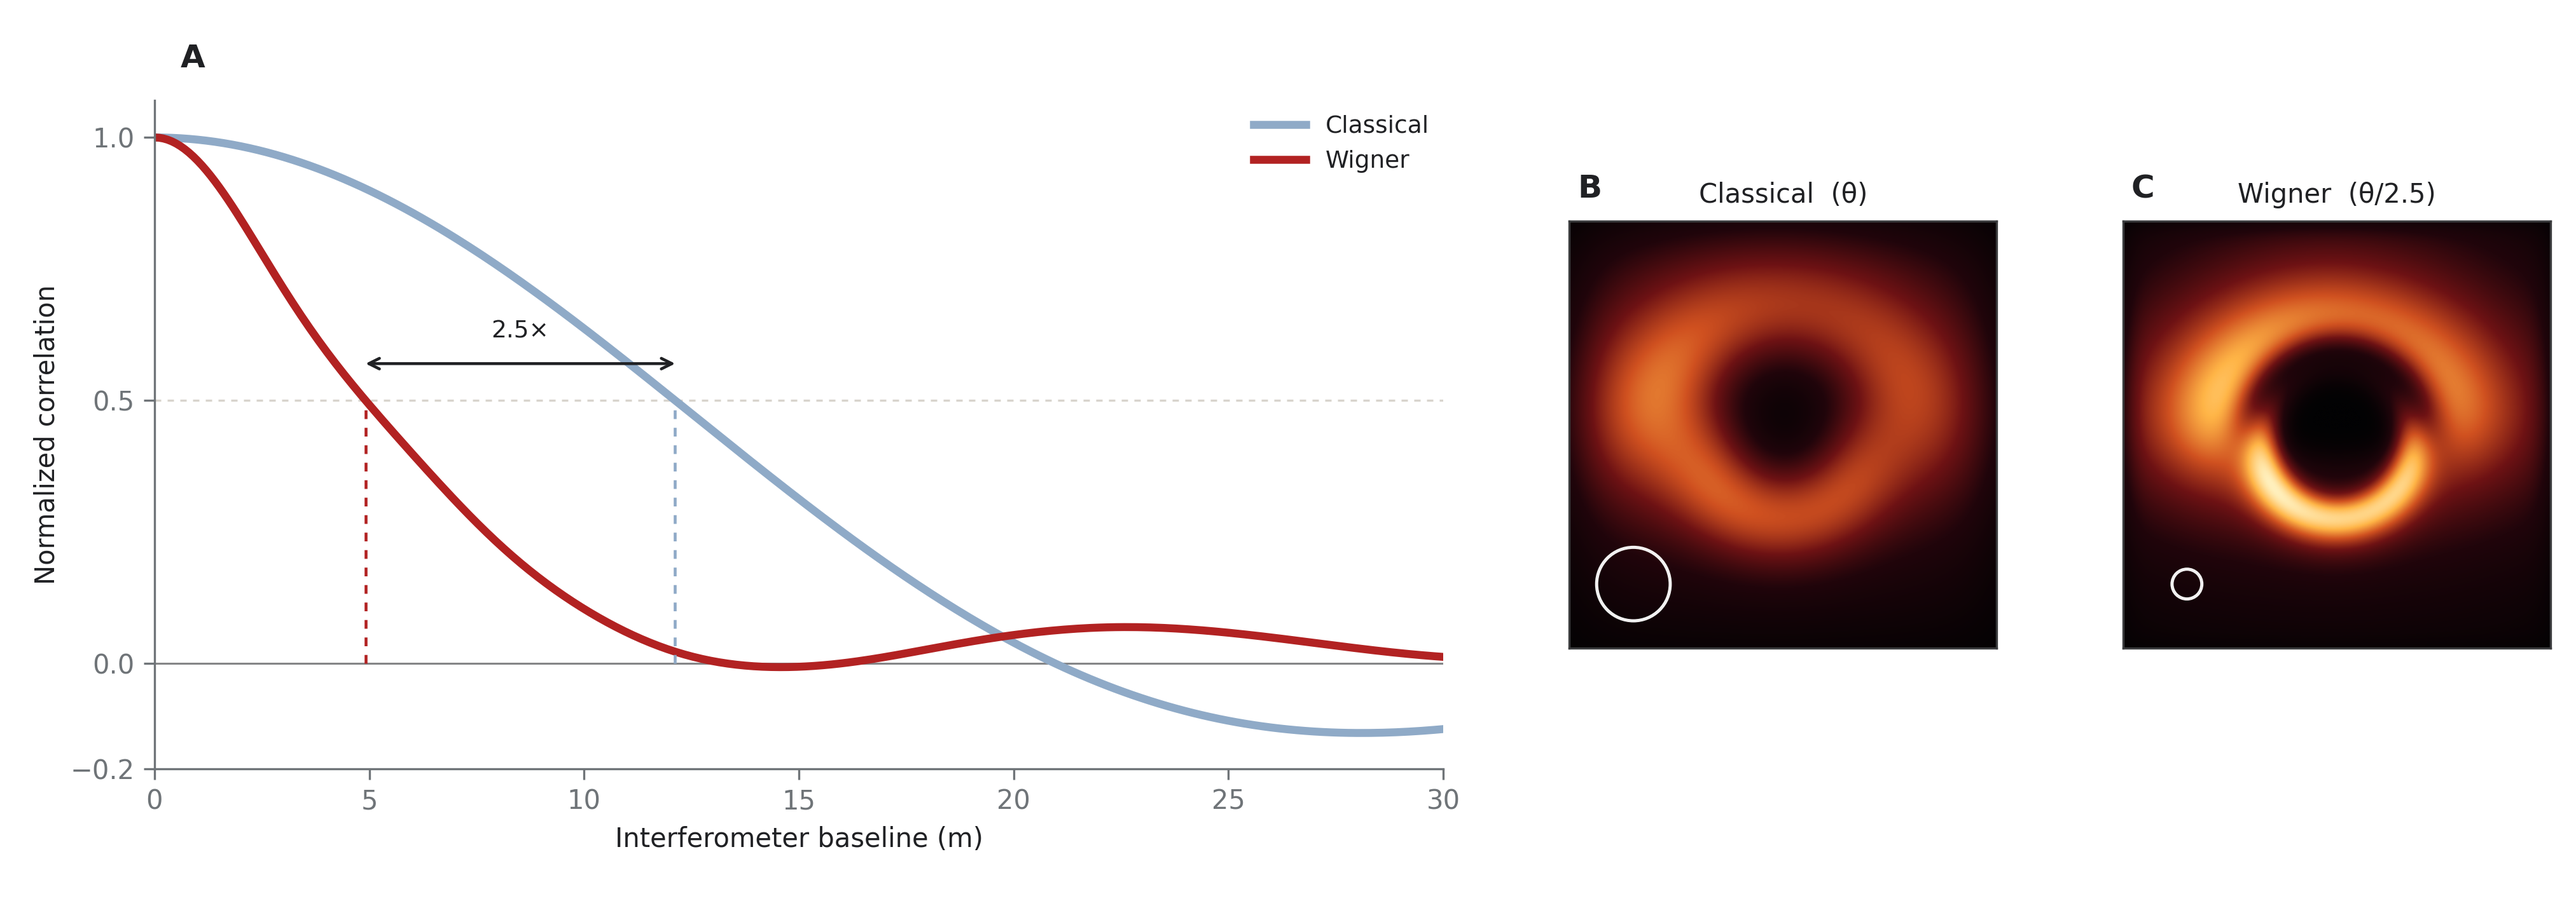
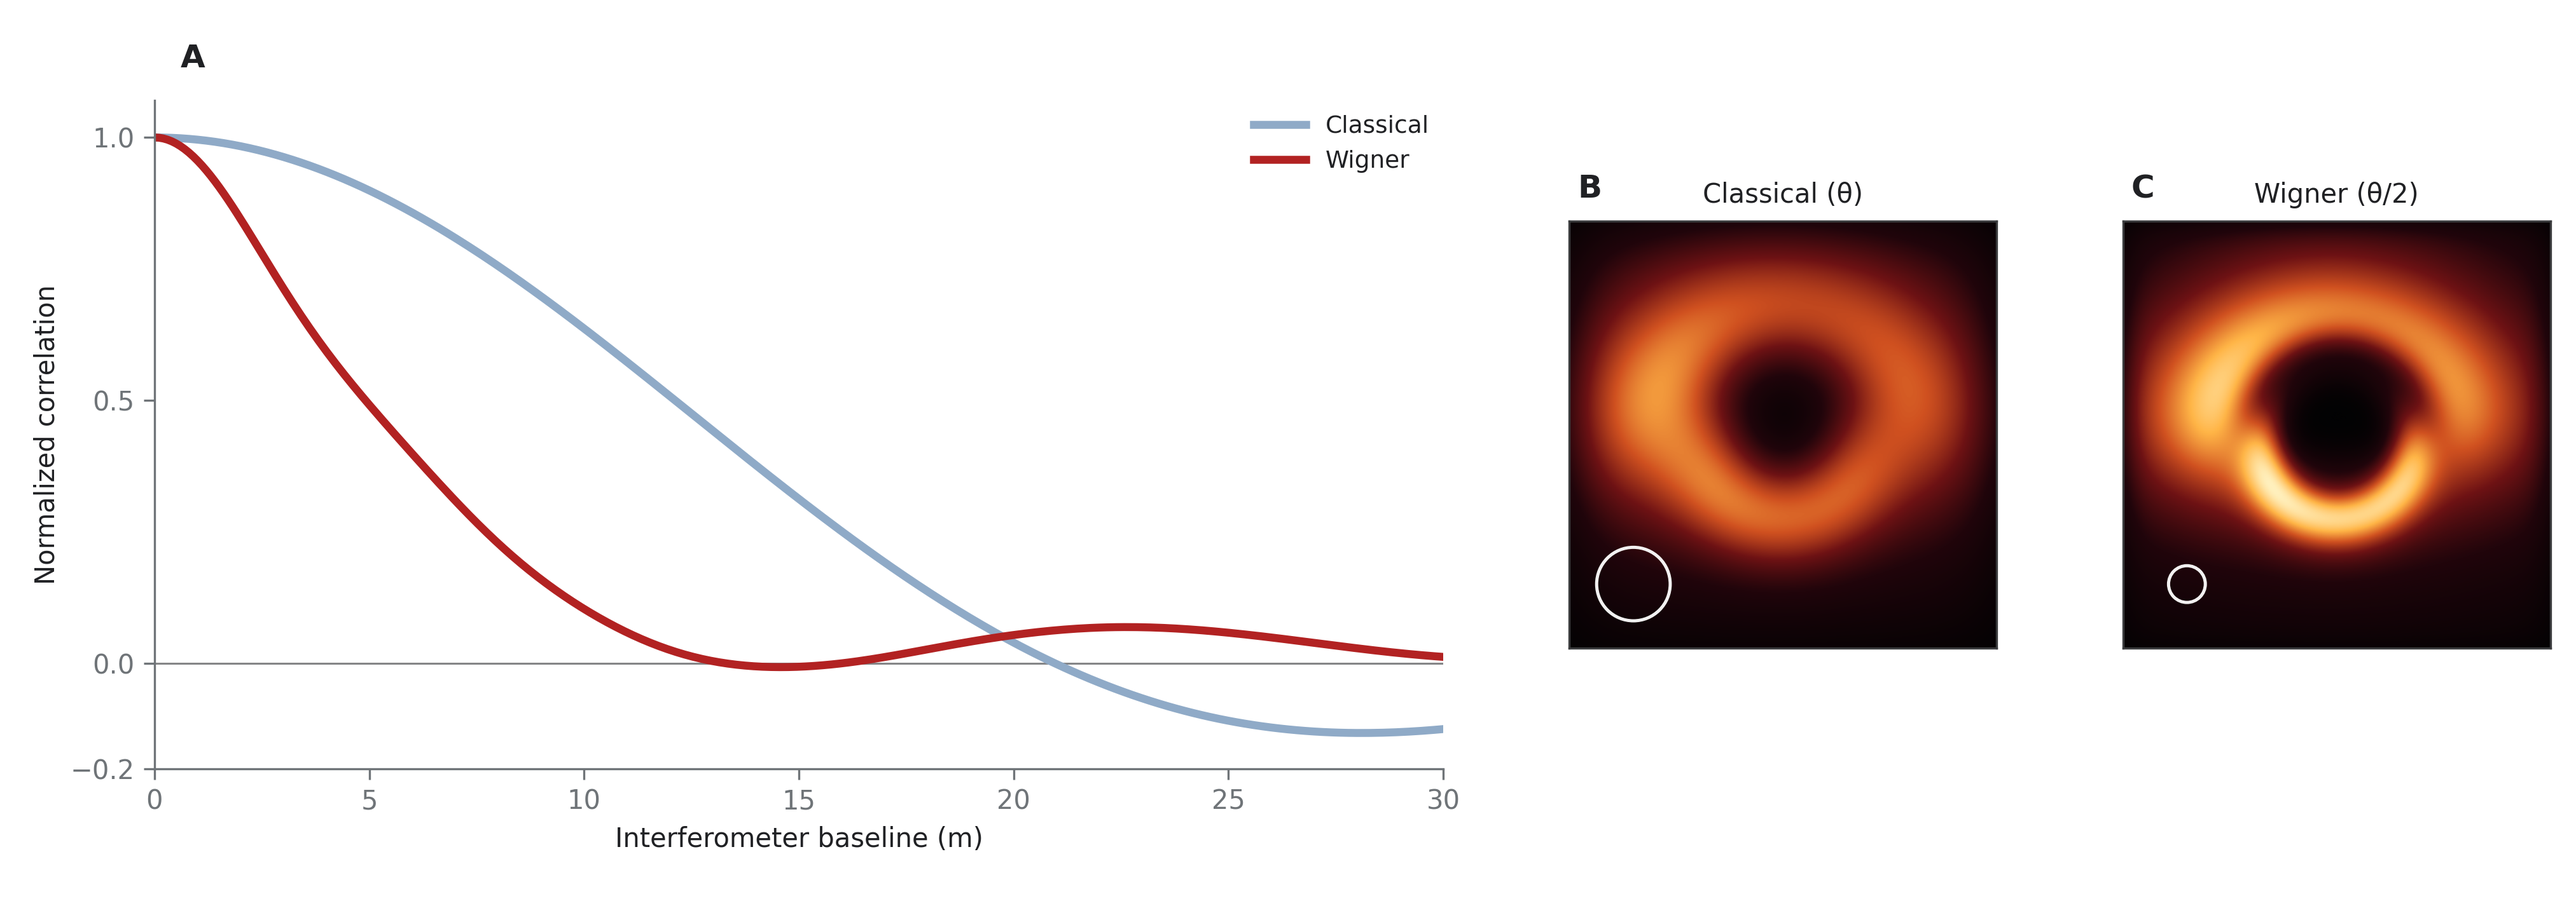
Use twofold resolution improvement

diff --git a/render-resolution-concept.py b/render-resolution-concept.py
@@ -4,8 +4,8 @@ The correlation curves reproduce the circular-source theory used by
 ``plot-frontfig.ipynb``. The image panels use one SHADOW-TD ray-traced,
 optically thin thick-disk model containing direct emission, a lensing ring,
 and a narrow photon ring. They differ only by the width of a Gaussian
-point-spread function. The relative PSF width is derived from the half-maximum
-locations of the two plotted responses; it is not an absolute telescope
+point-spread function. The relative PSF width represents the conservative
+twofold theoretical resolution improvement; it is not an absolute telescope
 forecast.
 """
 
@@ -31,7 +31,6 @@ COLORS = {
     "background": "#ffffff",
     "ink": "#202124",
     "muted": "#6f7478",
-    "grid": "#d8d4cd",
     "classical": "#8faac7",
     "wigner": "#b22222",
     "wigner_fill": "#d98b83",
@@ -151,11 +150,6 @@ def correlation_curves() -> tuple[np.ndarray, np.ndarray, np.ndarray]:
     return baselines, classical, wigner
 
 
-def half_maximum_x(x: np.ndarray, y: np.ndarray) -> float:
-    index = int(np.flatnonzero(y <= 0.5)[0])
-    return float(np.interp(0.5, y[index - 1 : index + 1][::-1], x[index - 1 : index + 1][::-1]))
-
-
 def black_hole_model(model_path: Path = MODEL_PATH) -> tuple[np.ndarray, float]:
     """Load linear intensity from the committed SHADOW-TD source model."""
     with np.load(model_path, allow_pickle=False) as archive:
@@ -195,10 +189,8 @@ def _panel_label(axis: plt.Axes, label: str) -> None:
 def render(output_dir: Path) -> tuple[Path, Path]:
     labels = TEXT
     baselines, classical, wigner = correlation_curves()
-    wigner_half = half_maximum_x(baselines, wigner)
-    classical_half = half_maximum_x(baselines, classical)
-    factor = classical_half / wigner_half
-    display_factor = f"{factor:.1f}"
+    factor = 2.0
+    display_factor = f"{factor:g}"
 
     ideal, pixel_scale = black_hole_model()
     current_sigma = 0.19
@@ -239,7 +231,6 @@ def render(output_dir: Path) -> tuple[Path, Path]:
     _panel_label(curve_axis, "A")
     curve_axis.set_facecolor(COLORS["background"])
     curve_axis.axhline(0.0, color=COLORS["ink"], linewidth=0.75, alpha=0.55)
-    curve_axis.axhline(0.5, color=COLORS["grid"], linewidth=0.8, linestyle=(0, (3, 3)))
     curve_axis.plot(
         baselines,
         classical,
@@ -253,35 +244,6 @@ def render(output_dir: Path) -> tuple[Path, Path]:
         color=COLORS["wigner"],
         linewidth=3.0,
         label=labels["wigner"],
-    )
-    curve_axis.vlines(
-        [wigner_half, classical_half],
-        0.0,
-        0.5,
-        colors=[COLORS["wigner"], COLORS["classical"]],
-        linestyles=(0, (3, 3)),
-        linewidth=1.1,
-    )
-    curve_axis.annotate(
-        "",
-        xy=(classical_half, 0.57),
-        xytext=(wigner_half, 0.57),
-        arrowprops={
-            "arrowstyle": "<->",
-            "color": COLORS["ink"],
-            "linewidth": 1.1,
-            "shrinkA": 0,
-            "shrinkB": 0,
-        },
-    )
-    curve_axis.text(
-        (wigner_half + classical_half) / 2.0,
-        0.61,
-        f"{display_factor}×",
-        ha="center",
-        va="bottom",
-        fontsize=9,
-        color=COLORS["ink"],
     )
     curve_axis.set_xlim(0.0, 30.0)
     curve_axis.set_ylim(-0.2, 1.07)
@@ -303,11 +265,11 @@ def render(output_dir: Path) -> tuple[Path, Path]:
     image_cmap = _image_colormap()
     image_extent = (-1.3, 1.3, -1.3, 1.3)
     for column, image, title, sigma, panel in (
-        (2, current_display, "Classical  (θ)", current_sigma, "B"),
+        (2, current_display, "Classical (θ)", current_sigma, "B"),
         (
             3,
             expected_display,
-            f"Wigner  (θ/{display_factor})",
+            f"Wigner (θ/{display_factor})",
             expected_sigma,
             "C",
         ),

diff --git a/README.md b/README.md
@@ -136,9 +136,9 @@ This upstream calculation takes several minutes; the rendering command itself
 uses the compact committed archive. The model follows
 [Wang (2025)](https://doi.org/10.1103/fhqj-wgcm). SHADOW-TD uses a Schwarzschild
 black hole and a parameterized thick accretion disk; it is a physical
-ray-tracing model, but not a Kerr or GRMHD simulation. The Gaussian width ratio
-in the illustration comes from the half-maximum widths of the plotted
-correlation responses; it is not an absolute telescope forecast.
+ray-tracing model, but not a Kerr or GRMHD simulation. The illustration uses a
+conservative twofold Gaussian-width ratio for the theoretical resolution
+improvement; it is not an absolute telescope forecast.
 
 ## Citation
 
